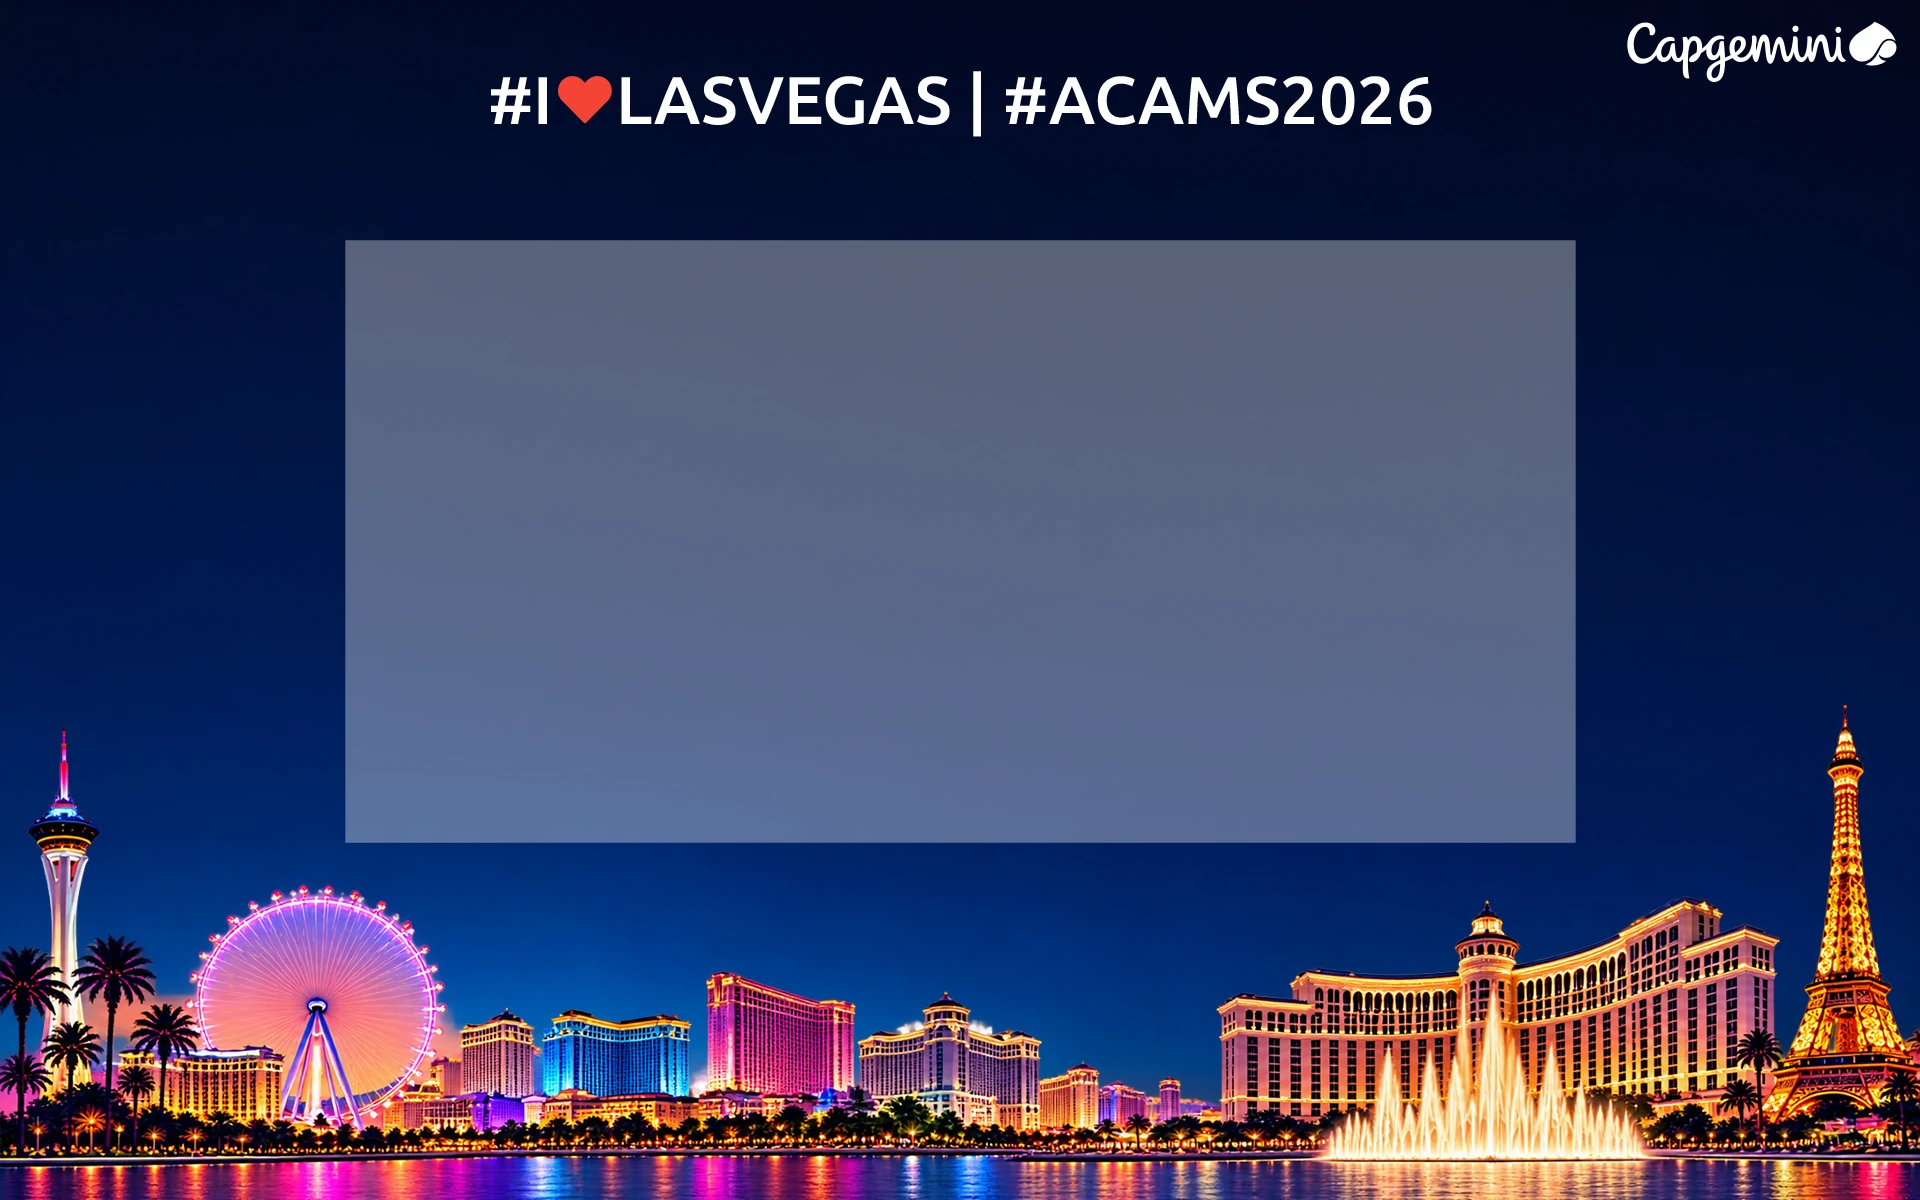
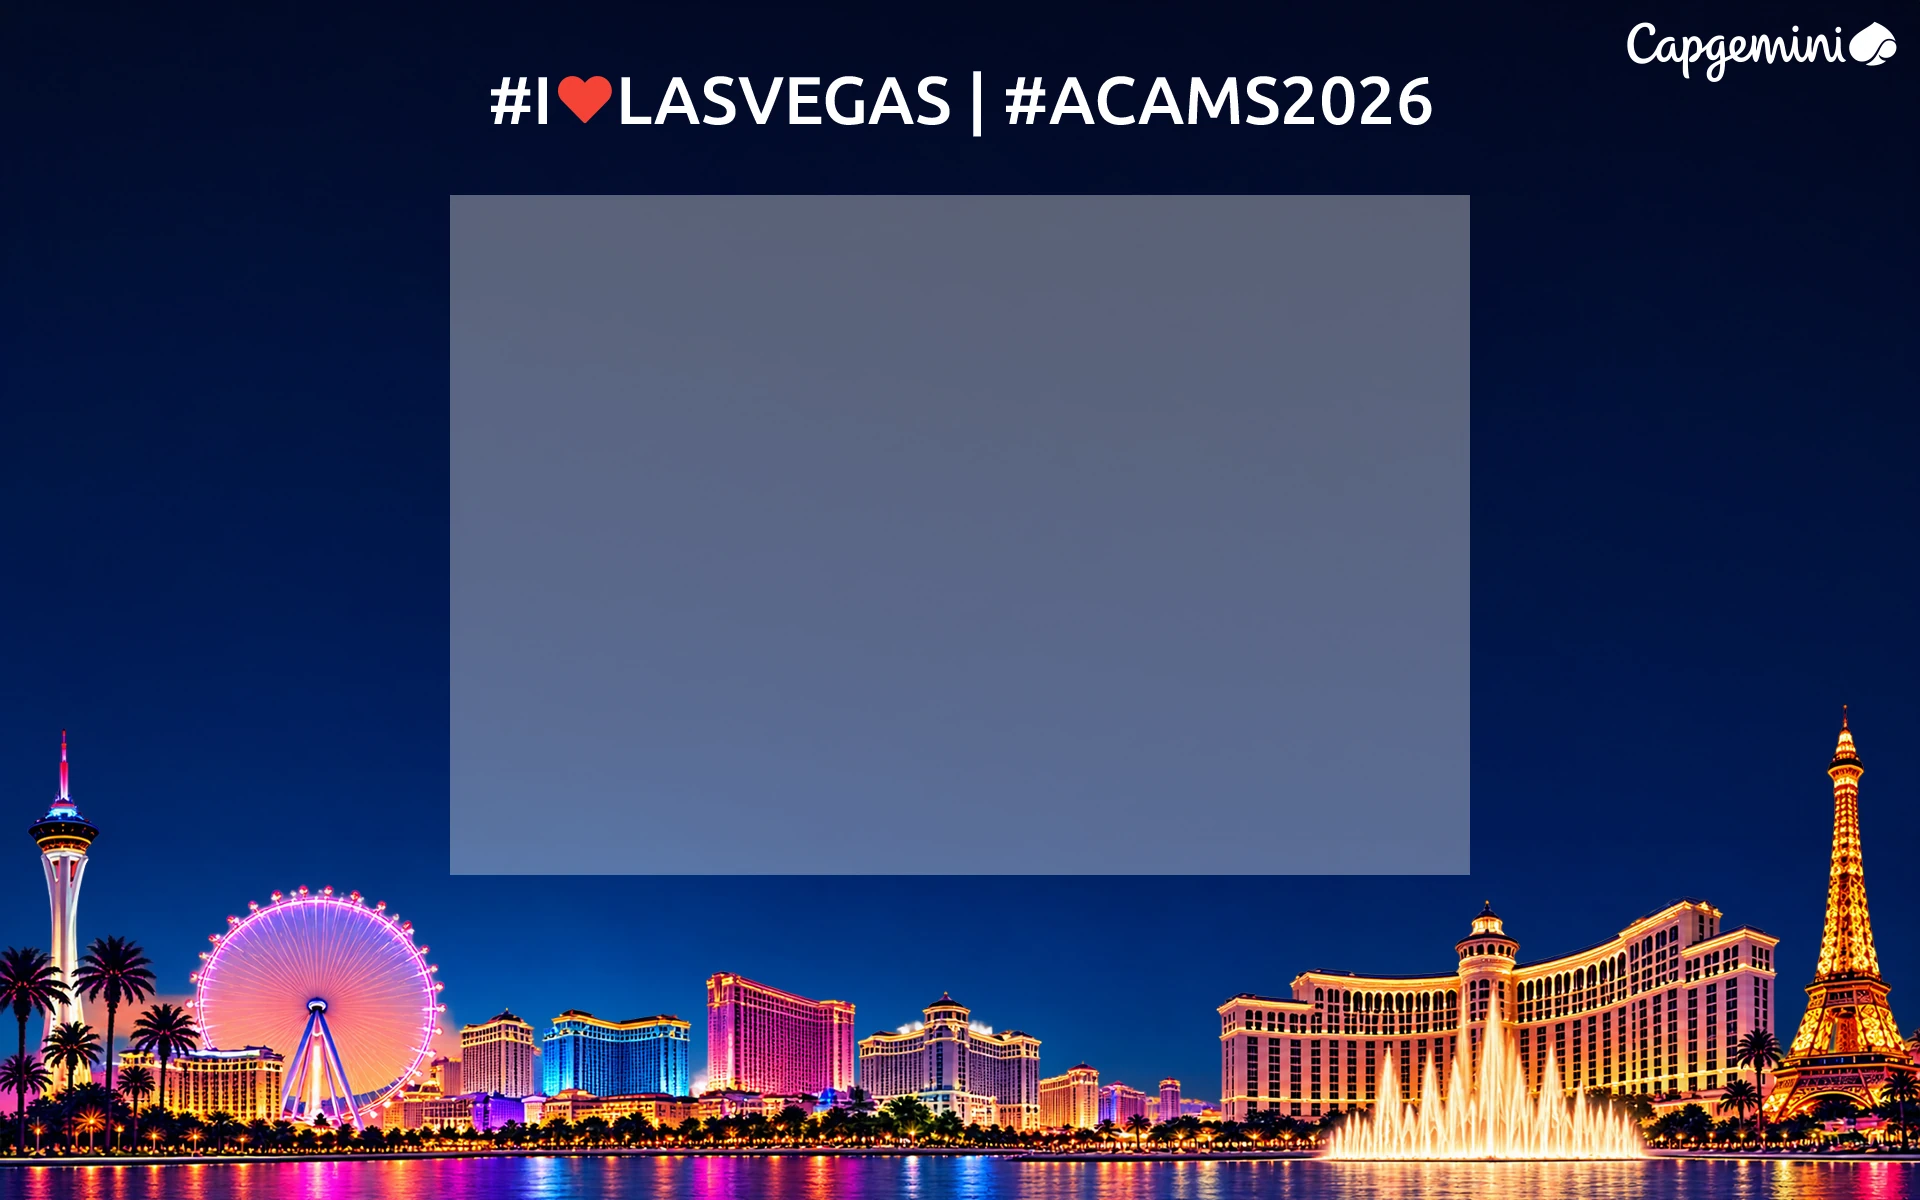
feat: new TV idle art and template-ratio generation
- TV idle screen uses the new 9:16 art, letterboxed over a blurred fill
- gpt.php now gets `size` per template (1024x1536 portrait, 1536x1024 group)
- frame_3 photo window redrawn at 3:2 so the group cutout fits exactly

Changed region(s): [[0.1562, 0.1542, 0.8438, 0.74]]

diff --git a/src/config.js b/src/config.js
@@ -13,8 +13,8 @@ export const SSE_URL = `${BASE_URL}/api/stream`;
 // Typical generation time, in seconds. Shown to the guest as the estimate and
 // used to pace the progress bar. TIMEOUT is when the tablet gives up and offers
 // a retry; keep it well past the upper end.
-export const PROCESS_TYPICAL_S = [15, 25];
-export const PROCESS_TIMEOUT_MS = 90000;
+export const PROCESS_TYPICAL_S = [25, 45];
+export const PROCESS_TIMEOUT_MS = 900000;
 export const SUBMIT_TIMEOUT_MS = 60000;
 
 // ─── Mock ────────────────────────────────────────────────────────────────────
@@ -31,11 +31,12 @@ export const MOCK_DOWNLOAD_URL = "https://www.capgemini.com";
 
 // ─── Templates ───────────────────────────────────────────────────────────────
 // `window` is the photo slot, in the frame's own pixels. The cutout is clipped
-// to it.
+// to it. `size` is sent to gpt.php: the closest ratio it offers to the window
+// (1024x1024 · 1024x1536 · 1536x1024).
 export const TEMPLATES = [
-  { id: 1, name: "Vegas Nights", src: frame1, width: 1200, height: 1920, window: { x: 257, y: 316, w: 686, h: 1041 } },
-  { id: 2, name: "The Strip", src: frame2, width: 1200, height: 1920, window: { x: 260, y: 321, w: 680, h: 1031 } },
-  { id: 3, name: "Skyline Group", src: frame3, width: 1920, height: 1200, window: { x: 345, y: 240, w: 1231, h: 603 } },
+  { id: 1, name: "Vegas Nights", src: frame1, width: 1200, height: 1920, window: { x: 257, y: 316, w: 686, h: 1041 }, size: "1024x1536" },
+  { id: 2, name: "The Strip", src: frame2, width: 1200, height: 1920, window: { x: 260, y: 321, w: 680, h: 1031 }, size: "1024x1536" },
+  { id: 3, name: "Skyline Group", src: frame3, width: 1920, height: 1200, window: { x: 450, y: 195, w: 1020, h: 680 }, size: "1536x1024" },
 ];
 
 // ─── Photo (tablet) ──────────────────────────────────────────────────────────

diff --git a/src/services/processApi.js b/src/services/processApi.js
@@ -9,7 +9,7 @@ async function dataUrlToBlob(dataUrl) {
 
 // Resolves once the cutout has actually loaded, so the editor never opens on a
 // broken image and a CORS problem surfaces here as a retryable error.
-export async function processPhoto({ photo, signal }) {
+export async function processPhoto({ photo, size, signal }) {
   if (MOCK.process) {
     await new Promise((r) => setTimeout(r, MOCK_PROCESS_DELAY_MS))
     return { id: null, cutout: photo }
@@ -17,6 +17,7 @@ export async function processPhoto({ photo, signal }) {
 
   const body = new FormData()
   body.append('source', await dataUrlToBlob(photo), 'photo.jpg')
+  body.append('size', size)
   const data = await postForm(PROCESS_URL, body, { timeout: PROCESS_TIMEOUT_MS, signal })
   // A PHP warning printed before the JSON arrives here as a plain string.
   if (typeof data !== 'object' || data === null) {

diff --git a/src/pages/TvPage.jsx b/src/pages/TvPage.jsx
@@ -31,8 +31,14 @@ export default function TvPage() {
       <img
         src={idle}
         alt=""
-        className={`absolute inset-0 h-full w-full object-cover transition duration-1000
-          ${result ? 'scale-110 opacity-40 blur-2xl' : ''}`}
+        className={`absolute inset-0 h-full w-full scale-110 object-cover blur-2xl transition duration-1000
+          ${result ? 'opacity-40' : 'opacity-60'}`}
+      />
+      <img
+        src={idle}
+        alt=""
+        className={`absolute inset-0 h-full w-full object-contain transition duration-1000
+          ${result ? 'opacity-0' : ''}`}
       />
 
       {result && (

diff --git a/src/pages/CapturePage.jsx b/src/pages/CapturePage.jsx
@@ -57,7 +57,7 @@ export default function CapturePage() {
     setError(null)
     setProcessing(true)
     try {
-      const { id, cutout } = await processPhoto({ photo, signal: request.signal })
+      const { id, cutout } = await processPhoto({ photo, size: template.size, signal: request.signal })
       if (request.signal.aborted) return
       saveSession({ cutout, processId: id, placement: null })
       navigate(ROUTES.editor)

diff --git a/CLAUDE.md b/CLAUDE.md
@@ -62,7 +62,7 @@ is Capgemini at ACAMS 2026, Las Vegas. Source art (the `.ai` files, full-size
 frames) is in `raw-docs/`. The app uses optimised copies in `src/assets/`.
 
 **Process API — live and confirmed.** `POST {BASE_URL}/gpt.php`, multipart with
-one file field, `source`, and no template id. It takes 15–25 s (`PROCESS_TYPICAL_S`) and returns
+one file field, `source`, plus `size` from the template (2:3 portrait for frames 1–2, 3:2 for the group frame). It takes 15–25 s (`PROCESS_TYPICAL_S`) and returns
 `{ success, id, generated_image_url, final_image_url, error? }`. The app uses
 `final_image_url`, the RGBA cutout with its background removed.
 `generated_image_url` still has its background and is unused. `id` is kept as
